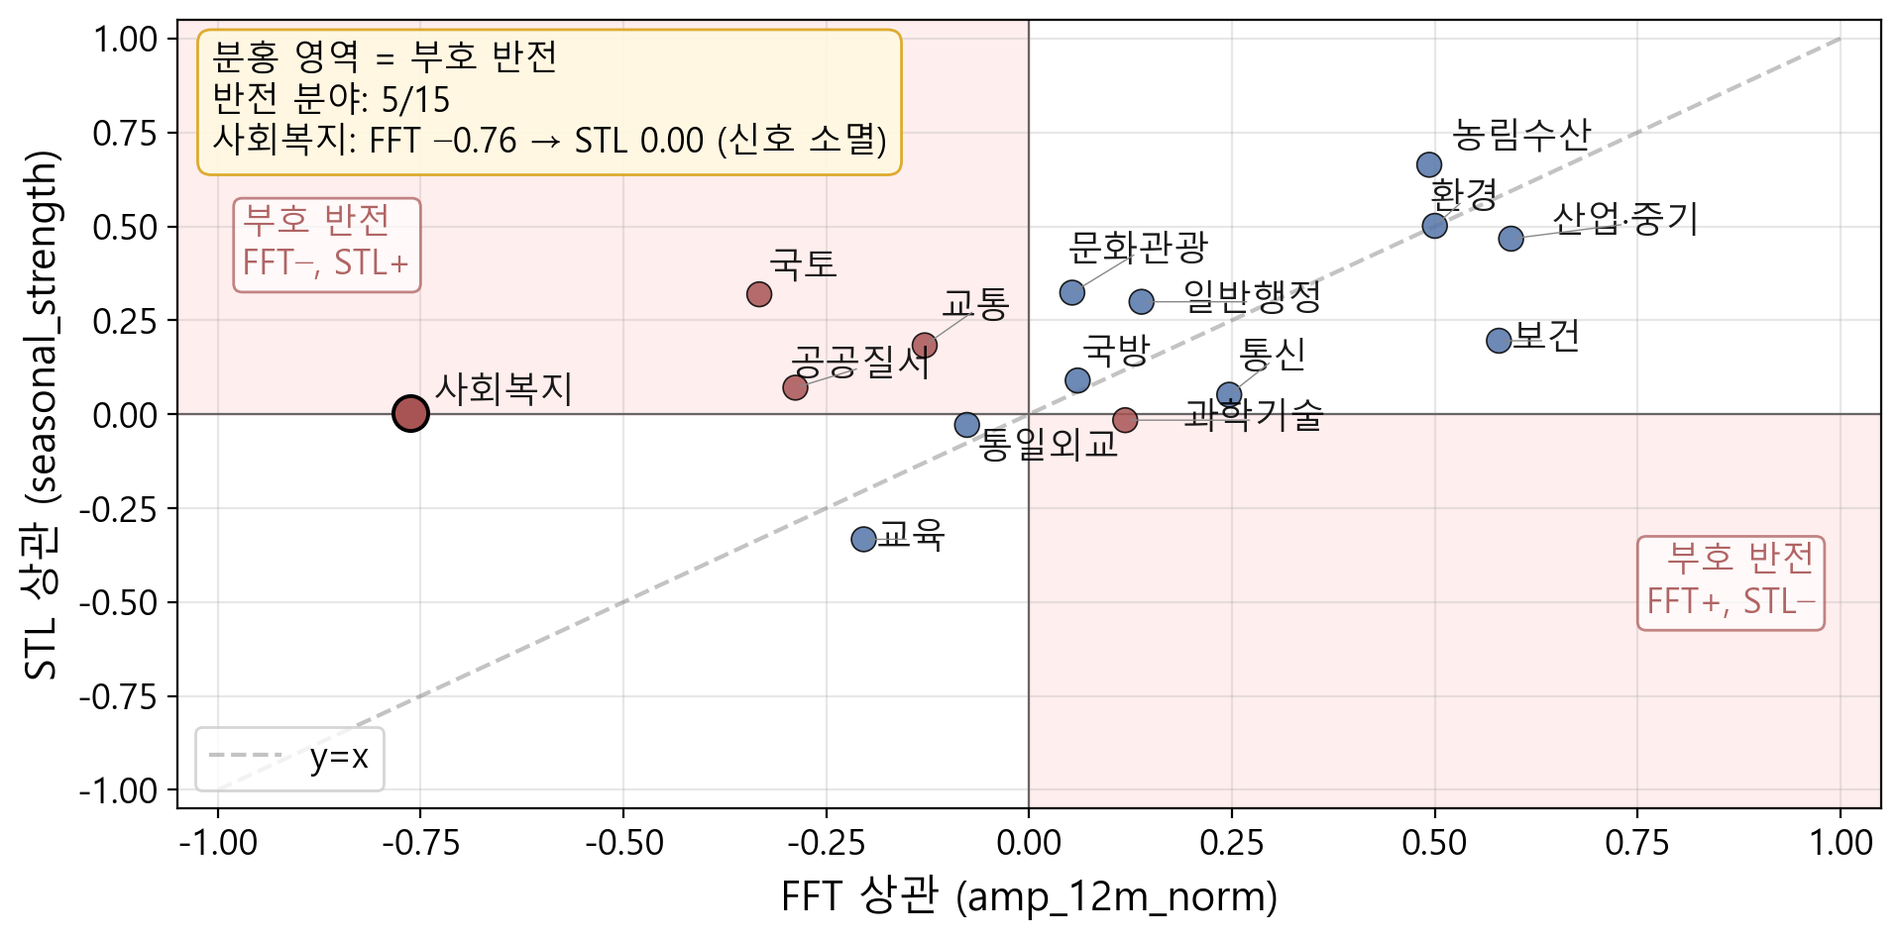
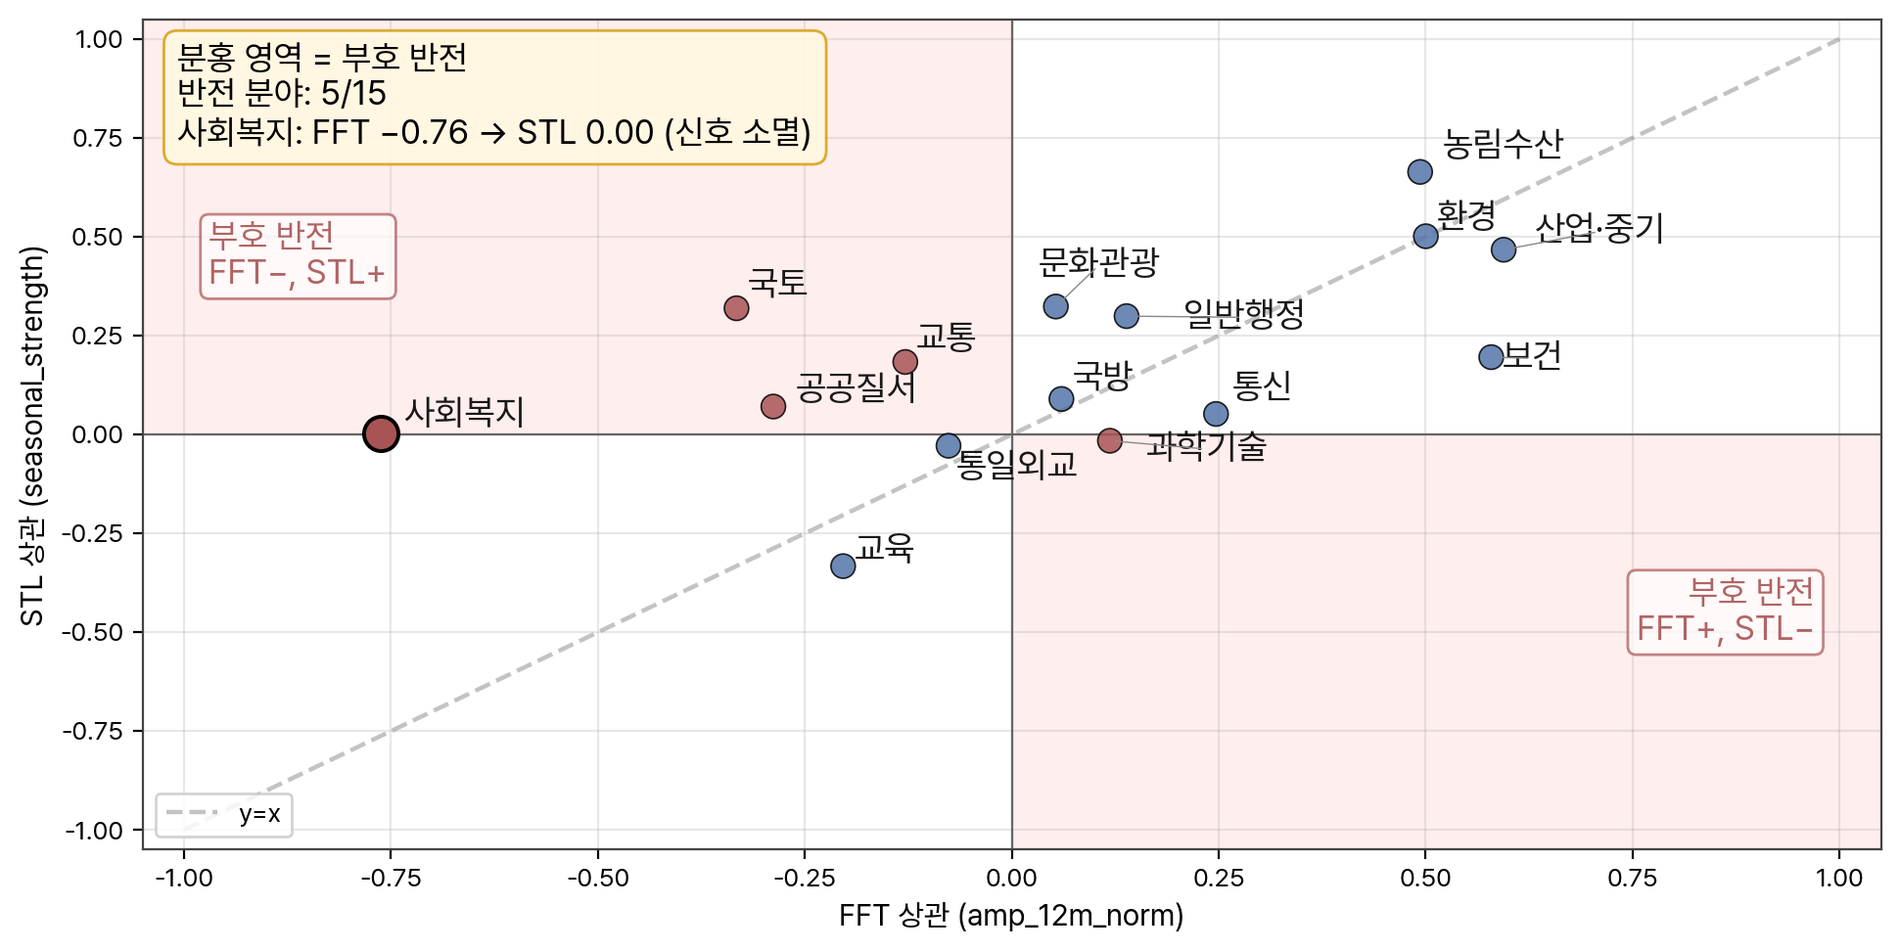
논문 차트 폰트·스타일 1차 통일 (redo_fig 시리즈 → Pretendard 공통 스타일)
- scripts/figures/_paper_style.py 신설: Pretendard 등록 + 통일 rcParams(폰트 크기·범례 반투명 framealpha)
- redo_fig01~16 폰트 블록(Malgun + 스크립트별 제각각 크기) → 공통 스타일 import로 일괄 교체
- 논문 차트 20여 개 재생성: umap·mapper·persistence·RDD·cpi·STL·psd·phase·coherence·evolution·robustness·h8 → Pretendard 통일
- 잔여(2차): v3 4개·h29/h30/h14 슬라이드빌더·forest 2개·fig_slide22·scaleogram(numpy ABI)

diff --git a/scripts/figures/_paper_style.py b/scripts/figures/_paper_style.py
@@ -1,0 +1,69 @@
+"""논문 차트 공통 스타일 — 모든 paper figure 생성기(redo_fig*.py 등)가 import.
+
+목적: 차트 간 폰트·크기·범례 스타일을 통일해 PDF 삽입 시 시각적 일관성 확보.
+- 폰트: Pretendard (paper/fonts/, CLAUDE.md 프로젝트 표준). 없으면 Malgun Gothic fallback.
+- 폰트 크기: A4 본문 폭(약 6.3 inch) 기준 통일값. 스크립트별 제각각 크기 제거.
+- 범례: 반투명(framealpha 0.85)으로 선/점 가림 완화.
+
+사용:
+    from _paper_style import apply_paper_style
+    apply_paper_style()
+"""
+import os
+import matplotlib as mpl
+import matplotlib.pyplot as plt  # noqa: F401  (import 보장용)
+from matplotlib import font_manager
+
+_ROOT = os.path.dirname(os.path.dirname(os.path.dirname(os.path.abspath(__file__))))
+_FONTS = os.path.join(_ROOT, "paper", "fonts")
+
+_PRETENDARD = [
+    "Pretendard-Regular.otf", "Pretendard-Medium.otf",
+    "Pretendard-SemiBold.otf", "Pretendard-Bold.otf",
+]
+
+
+def _register_pretendard():
+    ok = False
+    for fn in _PRETENDARD:
+        p = os.path.join(_FONTS, fn)
+        if os.path.exists(p):
+            try:
+                font_manager.fontManager.addfont(p)
+                ok = True
+            except Exception:
+                pass
+    return ok
+
+
+def apply_paper_style(base=11):
+    """공통 논문 스타일 적용. 반환: Pretendard 등록 성공 여부."""
+    has_pre = _register_pretendard()
+    family = (["Pretendard"] if has_pre
+              else ["Malgun Gothic", "AppleGothic", "NanumGothic"]) + ["DejaVu Sans"]
+    mpl.rcParams.update({
+        "font.family": family,
+        "font.size": base,
+        "axes.titlesize": base + 1.5,
+        "axes.titleweight": "semibold",
+        "axes.labelsize": base,
+        "xtick.labelsize": base - 1.5,
+        "ytick.labelsize": base - 1.5,
+        "legend.fontsize": base - 1.5,
+        "figure.titlesize": base + 2,
+        "lines.linewidth": 1.6,
+        "lines.markersize": 6,
+        "axes.linewidth": 0.8,
+        "axes.edgecolor": "#444444",
+        "legend.frameon": True,
+        "legend.framealpha": 0.85,
+        "legend.edgecolor": "#cccccc",
+        "legend.fancybox": True,
+        "legend.borderpad": 0.4,
+        "mathtext.default": "regular",
+        "axes.unicode_minus": False,
+        "figure.facecolor": "white",
+        "axes.facecolor": "white",
+        "savefig.facecolor": "white",
+    })
+    return has_pre

diff --git a/scripts/figures/redo_fig01_umap.py b/scripts/figures/redo_fig01_umap.py
@@ -19,24 +19,8 @@ warnings.filterwarnings('ignore')
 sys.stdout = io.TextIOWrapper(sys.stdout.buffer, encoding='utf-8')
 
 # A4 본문 폭(160mm ≈ 6.3 inch) 1:1 매핑 가이드라인
-plt.rcParams.update({
-    'font.size': 15,
-    'axes.titlesize': 17,
-    'axes.labelsize': 15,
-    'xtick.labelsize': 13,
-    'ytick.labelsize': 13,
-    'legend.fontsize': 13,
-    'figure.titlesize': 13,
-    'lines.linewidth': 1.4,
-    'lines.markersize': 6,
-    'mathtext.default': 'regular',
-    'axes.unicode_minus': False,
-})
-for fname in ['Malgun Gothic', 'Arial Unicode MS', 'NanumGothic']:
-    if any(fname.lower() in fn.name.lower()
-           for fn in mpl.font_manager.fontManager.ttflist):
-        mpl.rcParams['font.family'] = [fname, 'Times New Roman', 'DejaVu Sans']
-        break
+from _paper_style import apply_paper_style
+apply_paper_style()
 
 ROOT = os.path.dirname(os.path.dirname(os.path.dirname(os.path.abspath(__file__))))
 H3_CSV = os.path.join(ROOT, 'data', 'results', 'H3_activity_embedding_11y.csv')

diff --git a/scripts/figures/redo_fig02_mapper.py b/scripts/figures/redo_fig02_mapper.py
@@ -23,18 +23,8 @@ sys.stdout = io.TextIOWrapper(sys.stdout.buffer, encoding='utf-8')
 
 # A4 본문 폭(약 6.3 인치)에 1:1 매핑되도록 figsize·폰트 통일.
 # Typst image width:100% 사용 시 PNG가 PDF에서 6.3 인치로 표시됨 → 폰트 스케일 1:1
-plt.rcParams.update({
-    'font.size': 15, 'axes.titlesize': 17, 'axes.labelsize': 15,
-    'xtick.labelsize': 13, 'ytick.labelsize': 13,
-    'legend.fontsize': 13,
-    'mathtext.default': 'regular',
-    'axes.unicode_minus': False,
-})
-for fname in ['Malgun Gothic', 'Arial Unicode MS', 'NanumGothic']:
-    if any(fname.lower() in fn.name.lower()
-           for fn in mpl.font_manager.fontManager.ttflist):
-        mpl.rcParams['font.family'] = [fname, 'Times New Roman', 'DejaVu Sans']
-        break
+from _paper_style import apply_paper_style
+apply_paper_style()
 KFONT = mpl.rcParams.get('font.family', 'Malgun Gothic')
 
 ROOT = os.path.dirname(os.path.dirname(os.path.dirname(os.path.abspath(__file__))))

diff --git a/scripts/figures/redo_fig03_persistence.py b/scripts/figures/redo_fig03_persistence.py
@@ -19,18 +19,8 @@ from PIL import Image
 warnings.filterwarnings('ignore')
 sys.stdout = io.TextIOWrapper(sys.stdout.buffer, encoding='utf-8')
 
-plt.rcParams.update({
-    'font.size': 15, 'axes.titlesize': 17, 'axes.labelsize': 15,
-    'xtick.labelsize': 13, 'ytick.labelsize': 13,
-    'legend.fontsize': 13,
-    'mathtext.default': 'regular',
-    'axes.unicode_minus': False,
-})
-for fname in ['Malgun Gothic', 'Arial Unicode MS', 'NanumGothic']:
-    if any(fname.lower() in fn.name.lower()
-           for fn in mpl.font_manager.fontManager.ttflist):
-        mpl.rcParams['font.family'] = [fname, 'Times New Roman', 'DejaVu Sans']
-        break
+from _paper_style import apply_paper_style
+apply_paper_style()
 
 ROOT = os.path.dirname(os.path.dirname(os.path.dirname(os.path.abspath(__file__))))
 H3_CSV = os.path.join(ROOT, 'data', 'results', 'H3_activity_embedding_11y.csv')

diff --git a/scripts/figures/redo_fig10_quadrant.py b/scripts/figures/redo_fig10_quadrant.py
@@ -19,18 +19,8 @@ from PIL import Image
 warnings.filterwarnings('ignore')
 sys.stdout = io.TextIOWrapper(sys.stdout.buffer, encoding='utf-8')
 
-plt.rcParams.update({
-    'font.size': 15, 'axes.titlesize': 17, 'axes.labelsize': 15,
-    'xtick.labelsize': 13, 'ytick.labelsize': 13,
-    'legend.fontsize': 13,
-    'mathtext.default': 'regular',
-    'axes.unicode_minus': False,
-})
-for fname in ['Malgun Gothic', 'Arial Unicode MS', 'NanumGothic']:
-    if any(fname.lower() in fn.name.lower()
-           for fn in mpl.font_manager.fontManager.ttflist):
-        mpl.rcParams['font.family'] = [fname, 'Times New Roman', 'DejaVu Sans']
-        break
+from _paper_style import apply_paper_style
+apply_paper_style()
 
 ROOT = os.path.dirname(os.path.dirname(os.path.dirname(os.path.abspath(__file__))))
 DB = os.path.join(ROOT, 'data', 'warehouse.duckdb')

diff --git a/scripts/figures/redo_fig04_robustness.py b/scripts/figures/redo_fig04_robustness.py
@@ -18,18 +18,8 @@ from scipy.stats import norm
 warnings.filterwarnings('ignore')
 sys.stdout = io.TextIOWrapper(sys.stdout.buffer, encoding='utf-8')
 
-plt.rcParams.update({
-    'font.size': 15, 'axes.titlesize': 17, 'axes.labelsize': 15,
-    'xtick.labelsize': 13, 'ytick.labelsize': 13,
-    'legend.fontsize': 13,
-    'mathtext.default': 'regular',
-    'axes.unicode_minus': False,
-})
-for fname in ['Malgun Gothic', 'Arial Unicode MS', 'NanumGothic']:
-    if any(fname.lower() in fn.name.lower()
-           for fn in mpl.font_manager.fontManager.ttflist):
-        mpl.rcParams['font.family'] = [fname, 'Times New Roman', 'DejaVu Sans']
-        break
+from _paper_style import apply_paper_style
+apply_paper_style()
 
 ROOT = os.path.dirname(os.path.dirname(os.path.dirname(os.path.abspath(__file__))))
 RES = os.path.join(ROOT, 'data', 'results')

diff --git a/scripts/figures/redo_fig07_rdd.py b/scripts/figures/redo_fig07_rdd.py
@@ -17,18 +17,8 @@ from PIL import Image
 warnings.filterwarnings('ignore')
 sys.stdout = io.TextIOWrapper(sys.stdout.buffer, encoding='utf-8')
 
-plt.rcParams.update({
-    'font.size': 10, 'axes.titlesize': 12, 'axes.labelsize': 10,
-    'xtick.labelsize': 9, 'ytick.labelsize': 9,
-    'legend.fontsize': 9,
-    'mathtext.default': 'regular',
-    'axes.unicode_minus': False,
-})
-for fname in ['Malgun Gothic', 'Arial Unicode MS', 'NanumGothic']:
-    if any(fname.lower() in fn.name.lower()
-           for fn in mpl.font_manager.fontManager.ttflist):
-        mpl.rcParams['font.family'] = [fname, 'Times New Roman', 'DejaVu Sans']
-        break
+from _paper_style import apply_paper_style
+apply_paper_style()
 
 ROOT = os.path.dirname(os.path.dirname(os.path.dirname(os.path.abspath(__file__))))
 DB = os.path.join(ROOT, 'data', 'warehouse.duckdb')

diff --git a/scripts/figures/redo_fig05_cpi.py b/scripts/figures/redo_fig05_cpi.py
@@ -17,18 +17,8 @@ from PIL import Image
 warnings.filterwarnings('ignore')
 sys.stdout = io.TextIOWrapper(sys.stdout.buffer, encoding='utf-8')
 
-plt.rcParams.update({
-    'font.size': 15, 'axes.titlesize': 17, 'axes.labelsize': 15,
-    'xtick.labelsize': 13, 'ytick.labelsize': 13,
-    'legend.fontsize': 13,
-    'mathtext.default': 'regular',
-    'axes.unicode_minus': False,
-})
-for fname in ['Malgun Gothic', 'Arial Unicode MS', 'NanumGothic']:
-    if any(fname.lower() in fn.name.lower()
-           for fn in mpl.font_manager.fontManager.ttflist):
-        mpl.rcParams['font.family'] = [fname, 'Times New Roman', 'DejaVu Sans']
-        break
+from _paper_style import apply_paper_style
+apply_paper_style()
 
 ROOT = os.path.dirname(os.path.dirname(os.path.dirname(os.path.abspath(__file__))))
 RES = os.path.join(ROOT, 'data', 'results')

diff --git a/scripts/figures/redo_fig06_h8panel.py b/scripts/figures/redo_fig06_h8panel.py
@@ -12,18 +12,8 @@ from PIL import Image
 warnings.filterwarnings('ignore')
 sys.stdout = io.TextIOWrapper(sys.stdout.buffer, encoding='utf-8')
 
-plt.rcParams.update({
-    'font.size': 15, 'axes.titlesize': 17, 'axes.labelsize': 15,
-    'xtick.labelsize': 13, 'ytick.labelsize': 13,
-    'legend.fontsize': 13,
-    'mathtext.default': 'regular',
-    'axes.unicode_minus': False,
-})
-for fname in ['Malgun Gothic', 'Arial Unicode MS', 'NanumGothic']:
-    if any(fname.lower() in fn.name.lower()
-           for fn in mpl.font_manager.fontManager.ttflist):
-        mpl.rcParams['font.family'] = [fname, 'Times New Roman', 'DejaVu Sans']
-        break
+from _paper_style import apply_paper_style
+apply_paper_style()
 
 ROOT = os.path.dirname(os.path.dirname(os.path.dirname(os.path.abspath(__file__))))
 RES = os.path.join(ROOT, 'data', 'results')

diff --git a/scripts/figures/redo_fig08_field.py b/scripts/figures/redo_fig08_field.py
@@ -17,18 +17,8 @@ from PIL import Image
 warnings.filterwarnings('ignore')
 sys.stdout = io.TextIOWrapper(sys.stdout.buffer, encoding='utf-8')
 
-plt.rcParams.update({
-    'font.size': 15, 'axes.titlesize': 17, 'axes.labelsize': 15,
-    'xtick.labelsize': 13, 'ytick.labelsize': 13,
-    'legend.fontsize': 13,
-    'mathtext.default': 'regular',
-    'axes.unicode_minus': False,
-})
-for fname in ['Malgun Gothic', 'Arial Unicode MS', 'NanumGothic']:
-    if any(fname.lower() in fn.name.lower()
-           for fn in mpl.font_manager.fontManager.ttflist):
-        mpl.rcParams['font.family'] = [fname, 'Times New Roman', 'DejaVu Sans']
-        break
+from _paper_style import apply_paper_style
+apply_paper_style()
 
 ROOT = os.path.dirname(os.path.dirname(os.path.dirname(os.path.abspath(__file__))))
 RES = os.path.join(ROOT, 'data', 'results')

diff --git a/scripts/figures/redo_fig09_stl.py b/scripts/figures/redo_fig09_stl.py
@@ -18,18 +18,8 @@ from PIL import Image
 warnings.filterwarnings('ignore')
 sys.stdout = io.TextIOWrapper(sys.stdout.buffer, encoding='utf-8')
 
-plt.rcParams.update({
-    'font.size': 15, 'axes.titlesize': 17, 'axes.labelsize': 15,
-    'xtick.labelsize': 13, 'ytick.labelsize': 13,
-    'legend.fontsize': 13,
-    'mathtext.default': 'regular',
-    'axes.unicode_minus': False,
-})
-for fname in ['Malgun Gothic', 'Arial Unicode MS', 'NanumGothic']:
-    if any(fname.lower() in fn.name.lower()
-           for fn in mpl.font_manager.fontManager.ttflist):
-        mpl.rcParams['font.family'] = [fname, 'Times New Roman', 'DejaVu Sans']
-        break
+from _paper_style import apply_paper_style
+apply_paper_style()
 
 ROOT = os.path.dirname(os.path.dirname(os.path.dirname(os.path.abspath(__file__))))
 RES = os.path.join(ROOT, 'data', 'results')

diff --git a/scripts/figures/redo_fig11_psd.py b/scripts/figures/redo_fig11_psd.py
@@ -16,18 +16,8 @@ from PIL import Image
 warnings.filterwarnings('ignore')
 sys.stdout = io.TextIOWrapper(sys.stdout.buffer, encoding='utf-8')
 
-plt.rcParams.update({
-    'font.size': 15, 'axes.titlesize': 17, 'axes.labelsize': 15,
-    'xtick.labelsize': 13, 'ytick.labelsize': 13,
-    'legend.fontsize': 13,
-    'mathtext.default': 'regular',
-    'axes.unicode_minus': False,
-})
-for fname in ['Malgun Gothic', 'Arial Unicode MS', 'NanumGothic']:
-    if any(fname.lower() in fn.name.lower()
-           for fn in mpl.font_manager.fontManager.ttflist):
-        mpl.rcParams['font.family'] = [fname, 'Times New Roman', 'DejaVu Sans']
-        break
+from _paper_style import apply_paper_style
+apply_paper_style()
 
 ROOT = os.path.dirname(os.path.dirname(os.path.dirname(os.path.abspath(__file__))))
 RES = os.path.join(ROOT, 'data', 'results')
